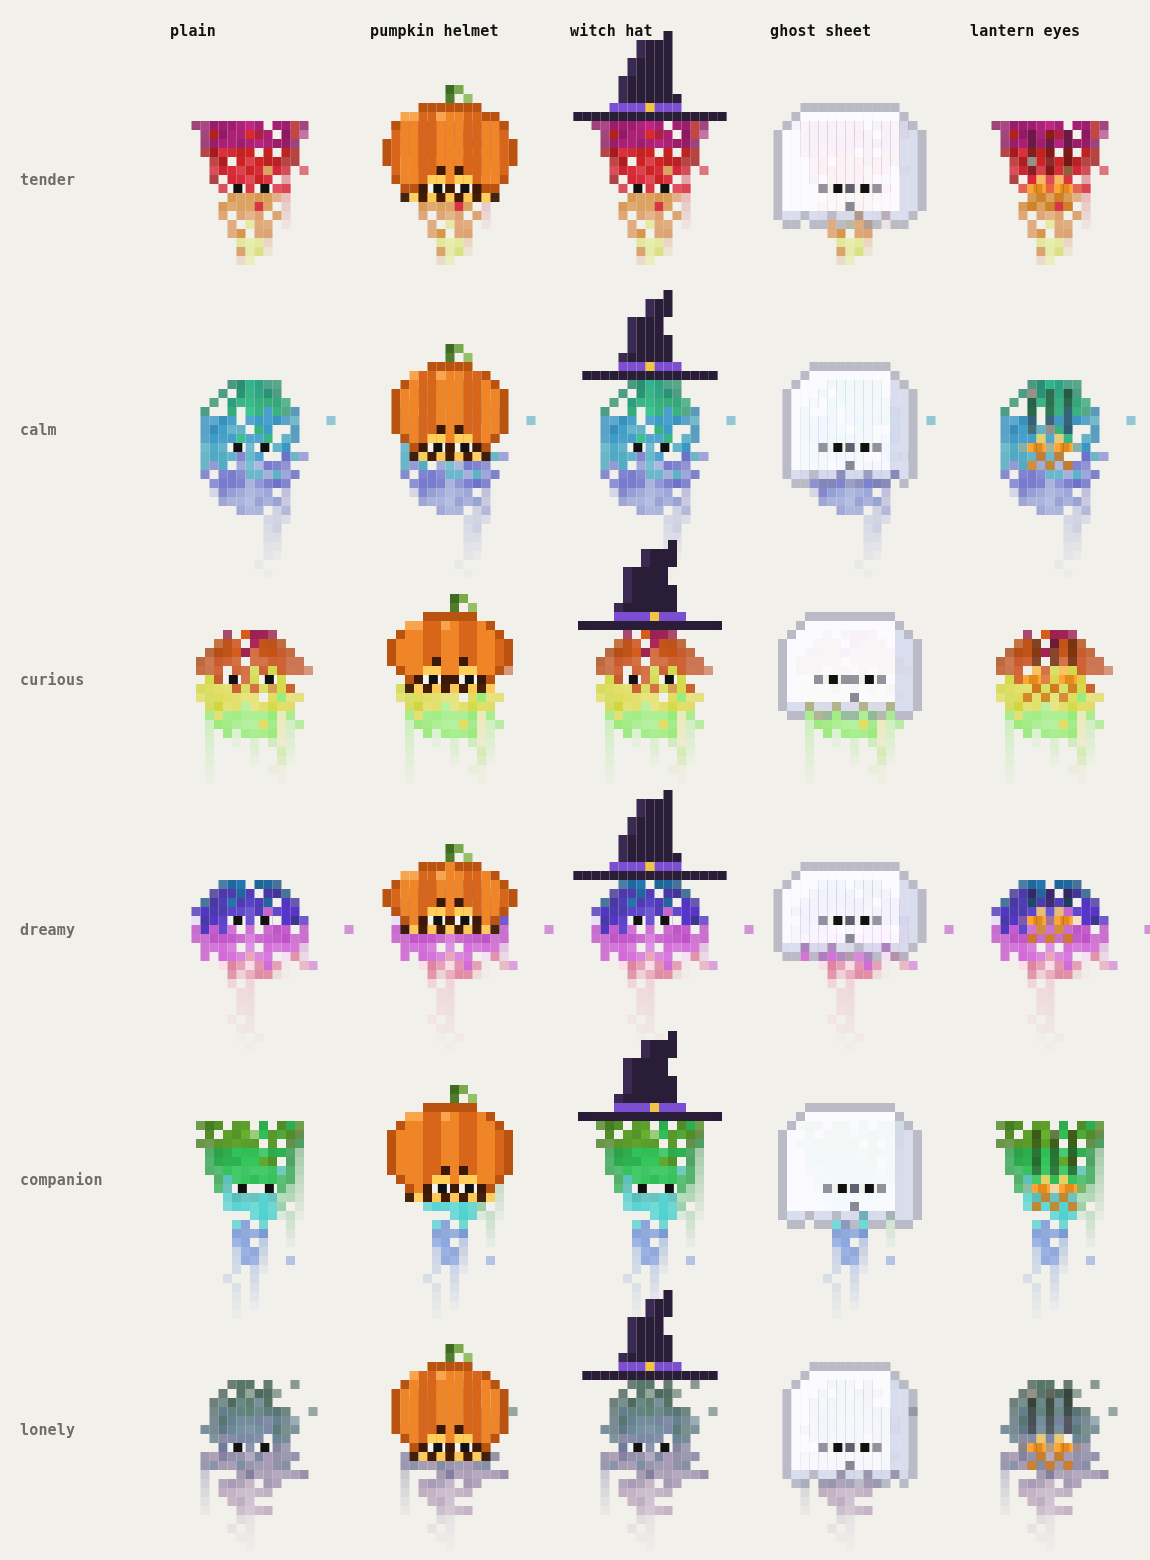
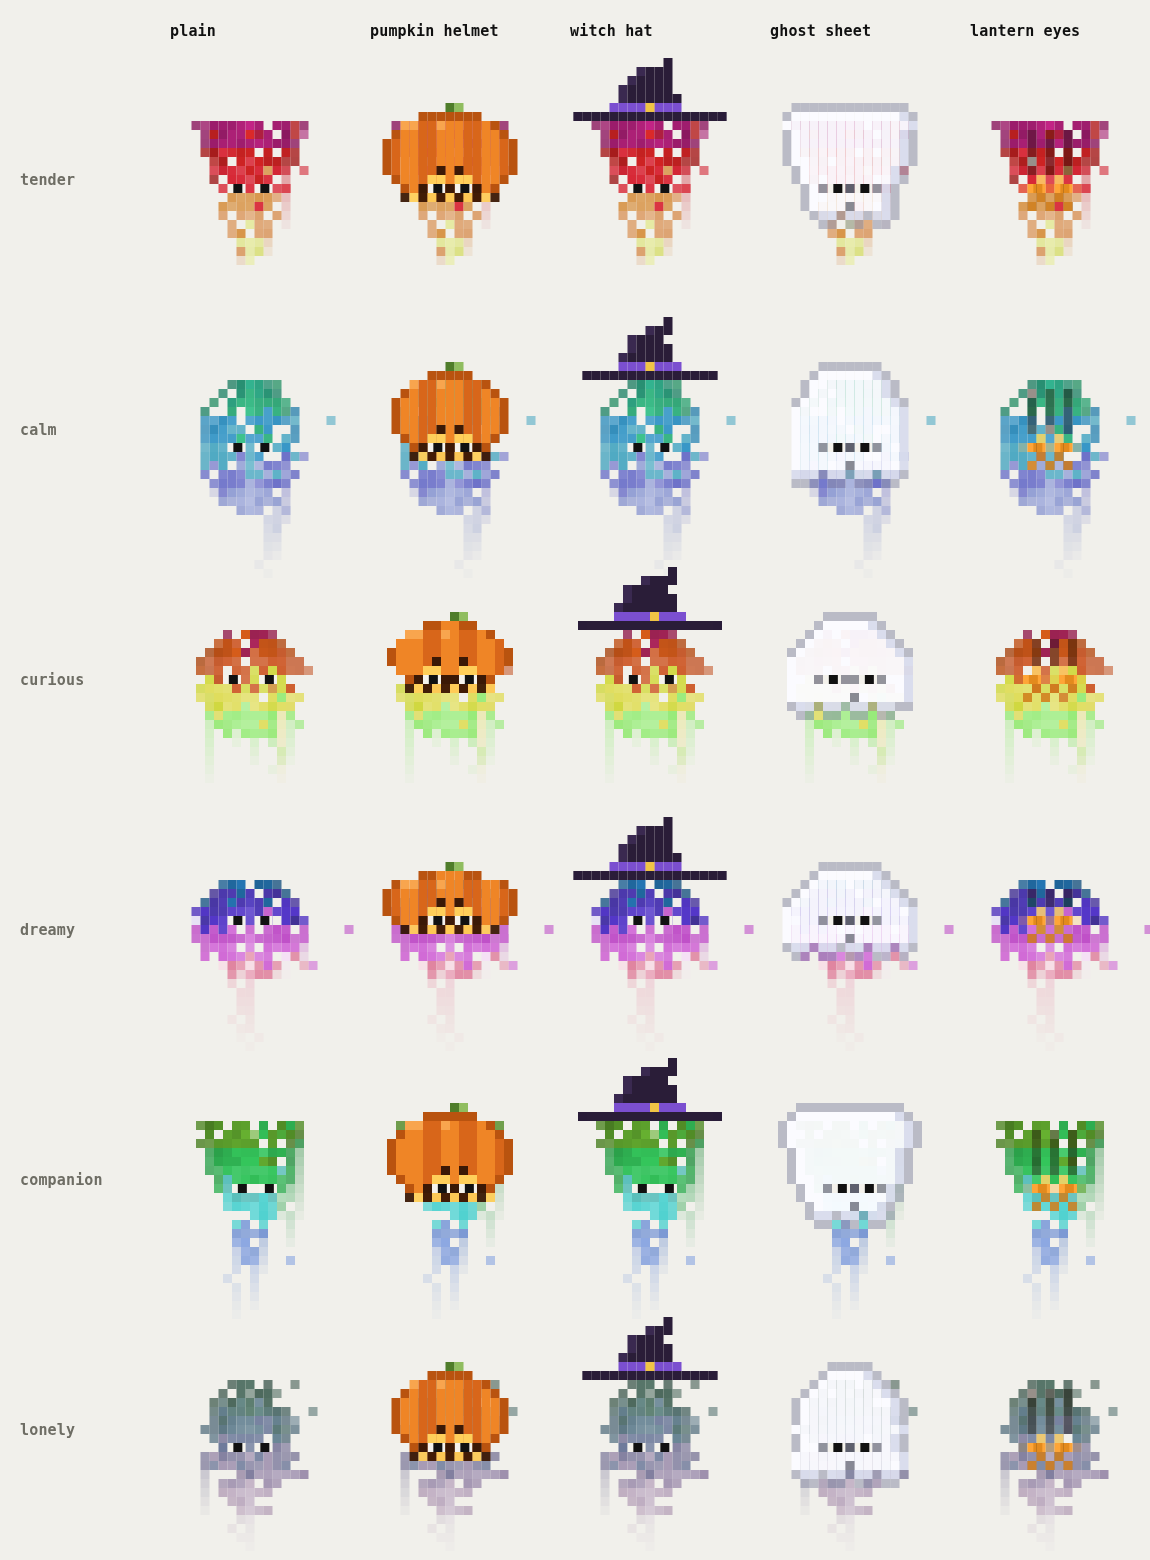
halloween: shorter pumpkin and witch hat; ghost sheet follows the spore silhouette
Claude-Session: https://claude.ai/code/session_01F351BE8WNbsDJxZJegnrAN

diff --git a/src/core/halloween.ts b/src/core/halloween.ts
@@ -59,7 +59,7 @@ export function drawCostume(g: G, spec: MosaicSpec, ox: number, oy: number, cell
   if (kind === 'pumpkin') {
     // a round pumpkin shell over the cap, eyes looking out of carved holes
     const l = h.left - 1, r = h.right + 1;
-    const t0 = h.top - 2, b = er + 1;
+    const t0 = h.top - 1, b = er + 1;
     const cx = (l + r) / 2, cy = (t0 + b) / 2;
     const rx = (r - l) / 2 + 0.5, ry = (b - t0) / 2 + 0.5;
     for (let y = t0; y <= b; y++) {
@@ -86,8 +86,7 @@ export function drawCostume(g: G, spec: MosaicSpec, ox: number, oy: number, cell
     }
     // stem + leaf
     const sc = Math.round(cx);
-    px(sc, t0 - 1, '#4f7d2a'); px(sc, t0 - 2, '#3f6a22'); px(sc + 1, t0 - 2, '#6da23a', 0.9);
-    px(sc + 2, t0 - 1, '#7fb446', 0.8);
+    px(sc, t0 - 1, '#4f7d2a'); px(sc + 1, t0 - 1, '#7fb446', 0.85);
   } else if (kind === 'witch') {
     const l = h.left - 2, r = h.right + 2;
     const brim = h.top - 1;
@@ -98,34 +97,33 @@ export function drawCostume(g: G, spec: MosaicSpec, ox: number, oy: number, cell
     const c0 = Math.round(h.mid - w0 / 2);
     for (let x = c0; x < c0 + w0; x++) px(x, band, '#7b4fd0');       // band
     px(Math.round(h.mid), band, '#f0c445');                          // buckle
-    let w = w0 - 1, y = band - 1, shift = 0;
-    while (w > 0 && y > band - 8) {
-      const cs = Math.round(h.mid - w / 2) + shift;
-      for (let x = cs; x < cs + w; x++) px(x, y, x === cs ? '#3a2950' : '#2a1d38');
-      y--; w -= (band - y) % 2 === 0 ? 1 : 0;
-      if (band - y > 5) shift = 1;                                   // floppy tip
-      if (w <= 1 && band - y > 6) break;
+    // short cone: 4 rows, then a floppy tip leaning right
+    let w = w0 - 1;
+    for (let k = 1; k <= 4 && w > 0; k++, w--) {
+      const cs = Math.round(h.mid - w / 2) + (k === 4 ? 1 : 0);
+      for (let x = cs; x < cs + w; x++) px(x, band - k, x === cs ? '#3a2950' : '#2a1d38');
     }
-    px(Math.round(h.mid) + shift + 1, y, '#2a1d38');
+    px(Math.round(h.mid) + 2, band - 5, '#2a1d38');
   } else if (kind === 'ghost') {
-    // a sheet over the cap, hanging past the eyes with a wavy hem
-    const l = h.left - 1, r = h.right + 1;
-    const t0 = h.top - 1, b = er + 3;
-    const cx = (l + r) / 2;
+    // a sheet that follows the spore's own silhouette (mask grown by one
+    // cell), hanging a few rows past the eyes with a wavy hem
+    const t0 = h.top - 1, b = Math.min(spec.rows, er + 3);
+    const cx = h.mid;
     const wob = Math.round(Math.sin(t * 2) * 0.5);
+    const m = (x: number, y: number) =>
+      x >= 0 && y >= 0 && x < spec.cols && y < spec.rows && spec.mask[y * spec.cols + x];
     const inSheet = (x: number, y: number) => {
       if (y < t0 || y > b) return false;
-      const round = y - t0 < 2 ? 2 - (y - t0) : 0;
-      if (x < l + round || x > r - round) return false;
-      return !(y === b && (x - l + wob) % 3 === 2);                  // wavy hem
+      if (!(m(x, y) || m(x - 1, y) || m(x + 1, y) || m(x, y + 1) || m(x, y - 1))) return false;
+      return !(y === b && (x + wob) % 3 === 2);                      // wavy hem
     };
     for (let y = t0 - 1; y <= b + 1; y++) {
-      for (let x = l - 1; x <= r + 1; x++) {
+      for (let x = -1; x <= spec.cols; x++) {
         if (inSheet(x, y)) {
           if (isEye(spec, x, y)) continue;
-          const shade = x >= r - 1 || y === b ? '#d9dcec' : '#fbfbff';
+          const shade = !inSheet(x + 1, y) || y === b ? '#d9dcec' : '#fbfbff';
           px(x, y, shade, 0.96);
-        } else if (inSheet(x - 1, y) || inSheet(x + 1, y) || inSheet(x, y - 1) || inSheet(x, y + 1)) {
+        } else if (inSheet(x - 1, y) || inSheet(x + 1, y) || inSheet(x, y - 1) || (inSheet(x, y + 1) && y < b)) {
           px(x, y, '#8d90a8', 0.55);                                  // soft outline
         }
       }
